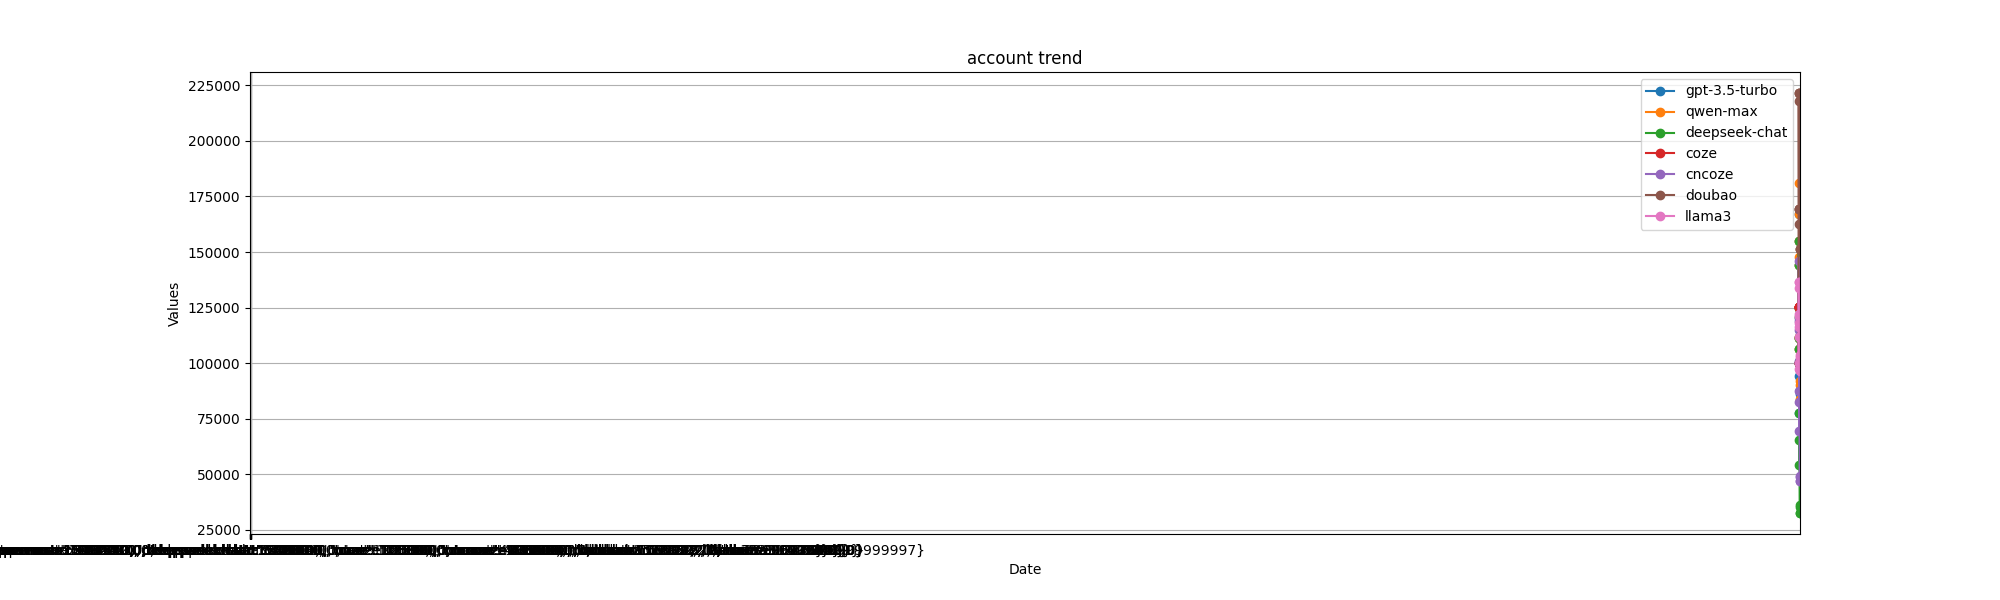
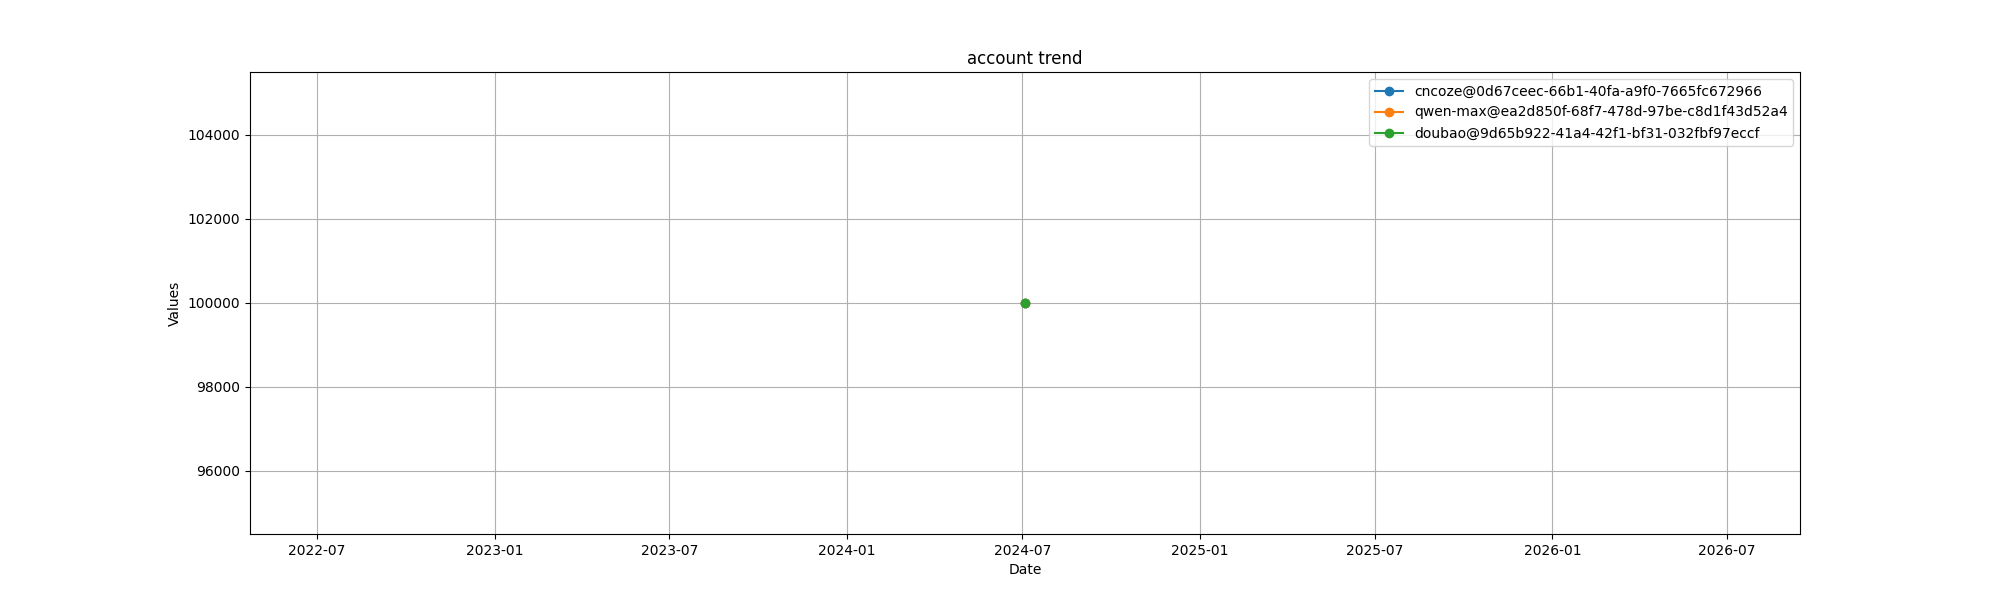
feat: update

diff --git a/main.py b/main.py
@@ -1,11 +1,7 @@
-import random
 import time
-
 import requests
-
 from models import Startup
-from service.ip import get_useable_ip
-from user import reset
+from service.account import daily_count
 from agent import Agent
 import datetime
 import uuid
@@ -24,13 +20,9 @@ from llm.cn_coze import CnCozeModal
 from llm.volc import DoubaoModel
 
 from service.futures_data import get_goods_minute_data
-
 from concurrent.futures import ProcessPoolExecutor, TimeoutError
 
-import matplotlib.pyplot as plt
-import pandas as pd
-
-from util.utils import is_trade_time
+from util.utils import is_trade_time, is_sync_time
 
 # gpt = OpenaiModel("gpt-3.5-turbo")  # 免费，可用，评分为基准60分
 # llama = Ollama("llama3")  # 免费，可用, 评分为75分
@@ -45,7 +37,6 @@ cncoze = CnCozeModal("cncoze")  # # 免费，可用，评分为70分，个人感
 # xunfei = XunfeiModel("xunfei") # lite免费，3.5有送的，但是，全部都是弱智，vol乱写，评分为0分
 doubao = DoubaoModel("doubao")  # 不免费，有赠送，但是收费很便宜，可以很低，评分65
 llm_list = [cncoze, ali, doubao]
-# llm_list = [ali]
 
 
 # 目前看，gpt3.5，扣子中文，llama3，阿里云，扣子，DeepseekModal，DoubaoModel
@@ -54,42 +45,6 @@ llm_list = [cncoze, ali, doubao]
 
 def item_exists(data_list, field, value):
     return any(item[field] == value for item in data_list)
-
-
-def merge_lists(lists, key='date'):
-    merged_dict = {}
-
-    for lst in lists:
-        for item in lst:
-            item_id = item[key]
-            if item_id not in merged_dict:
-                merged_dict[item_id] = item
-            else:
-                # If the same ID exists, merge the dictionaries, prioritizing the existing fields
-                for k, v in item.items():
-                    if k not in merged_dict[item_id]:
-                        merged_dict[item_id][k] = v
-
-    # Convert merged_dict back to a list of dictionaries
-    merged_list = list(merged_dict.values())
-    return merged_list
-
-
-def save_img(data):
-    df = pd.DataFrame(data)
-    df['date'] = pd.to_datetime(df['date'])
-    plt.figure(figsize=(20, 6))
-    for key in df.columns:
-        if key != 'date':
-            plt.plot(df['date'], df[key], marker='o', label=key)
-
-    plt.xlabel('Date')
-    plt.ylabel('Values')
-    plt.title('account trend')
-    plt.legend()
-    plt.grid(True)
-    plt.savefig('plot.png')
-    plt.close()
 
 
 def execution(startup_uid, agent_name, data, daily_data):
@@ -113,14 +68,19 @@ if __name__ == '__main__':
     while True:
         today = datetime.date.today()
         if today.weekday() == 5 or today.weekday() == 6:
+            time.sleep(5 * 60)
             continue
         if not is_trade_time():
+            if is_sync_time():
+                daily_count()
+            time.sleep(5 * 60)
             continue
         history = get_goods_minute_data('AG2408')
         history.reverse()
         try:
-            url = ("http://stock2.finance.sina.com.cn/futures/api/json.php/IndexService.getInnerFuturesDailyKLine?symbol"
-                   "=ag2408")
+            url = (
+                "http://stock2.finance.sina.com.cn/futures/api/json.php/IndexService.getInnerFuturesDailyKLine?symbol"
+                "=ag2408")
             daily_history = requests.get(url).json()
             if len(daily_history):
                 daily_history_temp = daily_history
@@ -128,16 +88,14 @@ if __name__ == '__main__':
             print(e)
             daily_history = daily_history_temp
         with ProcessPoolExecutor() as executor:
-            futures = [executor.submit(execution, startup_id, item.model_name, history[-61:], daily_history[-10:]) for item in llm_list if item.model_name != 'llama3']
+            futures = [executor.submit(execution, startup_id, item.model_name, history[-61:], daily_history[-10:]) for
+                       item in llm_list if item.model_name != 'llama3']
             for future in futures:
                 try:
                     result = future.result(timeout=10000000)  # Wait for all processes to complete
-                    results.append(result)    # Append the result to the list
+                    results.append(result)  # Append the result to the list
                 except TimeoutError:
                     print(f"Timeout occurred for a task.")
-
-        time.sleep(60)
+        time.sleep(5 * 60)
         # llama3 比较特殊，不知道为什么使用线程池失败
         # results.append(execution("llama3", history))
-        # all_history = merge_lists([item for item in results])
-        # save_img(all_history)

diff --git a/util/utils.py b/util/utils.py
@@ -1,5 +1,10 @@
 import datetime
 
+import matplotlib.pyplot as plt
+import pandas as pd
+
+from models import DailyAccount
+
 
 def is_time_in_range(start, end, now=None):
     # If now is not specified, use current time
@@ -43,3 +48,66 @@ def is_trade_time():
             is_time_in_range(start_afternoon, end_afternoon) or
             is_time_in_day_range(start_time, end_time)
             )
+
+
+def is_sync_time():
+    start_day = datetime.time(15, 0)
+    end_day = datetime.time(15, 30)
+
+    return is_time_in_range(start_day, end_day)
+
+
+def save_img(data):
+    last_date = data[-1]['date'].strftime('%Y-%m-%d')
+    df = pd.DataFrame(data)
+    df['date'] = pd.to_datetime(df['date'])
+    plt.figure(figsize=(20, 6))
+    for key in df.columns:
+        if key != 'date':
+            plt.plot(df['date'], df[key], marker='o', label=key)
+
+    plt.xlabel('Date')
+    plt.ylabel('Values')
+    plt.title('account trend')
+    plt.legend()
+    plt.grid(True)
+    plt.savefig(last_date + '.png')
+    plt.close()
+
+
+def merge_lists(lists, key='date'):
+    merged_dict = {}
+
+    for lst in lists:
+        for item in lst:
+            item_id = item[key]
+            if item_id not in merged_dict:
+                merged_dict[item_id] = item
+            else:
+                # If the same ID exists, merge the dictionaries, prioritizing the existing fields
+                for k, v in item.items():
+                    if k not in merged_dict[item_id]:
+                        merged_dict[item_id][k] = v
+
+    # Convert merged_dict back to a list of dictionaries
+    merged_list = list(merged_dict.values())
+    return merged_list
+
+
+def draw_daily_account():
+    data = DailyAccount.select().order_by(DailyAccount.date)
+    df = []
+    current_date = None
+    current_date_list = []
+    for item in data:
+        if current_date is None:
+            current_date = item.date
+        if current_date != item.date:
+            df.append([item for item in current_date_list])
+            current_date_list = []
+            current_date = item.date
+        current_date_list.append({"date": item.date, item.account_name: item.value})
+    df.append([item for item in current_date_list])
+    df = merge_lists(df)
+    print(df)
+    save_img(df)

diff --git a/service/account.py b/service/account.py
@@ -1,0 +1,34 @@
+import datetime
+
+from models import Users, Userstatus, database, GoodsPriceInSecond, Goods, DailyAccount
+
+
+def query_goods_current_price(goods_name):
+    goods = Goods.select().where(Goods.cn_name == goods_name).get()
+    data = GoodsPriceInSecond.select(GoodsPriceInSecond.current_price).where(
+        GoodsPriceInSecond.goods == goods.id).order_by(GoodsPriceInSecond.price_time.desc()).limit(1).get()
+    return data
+
+
+def daily_count():
+    query = Userstatus.select(Userstatus.volume, Users.money, Userstatus.goods, Users.name).where(
+        Userstatus.close.is_null()).join(Users, on=(Users.id == Userstatus.user_id))
+    # 获取每个资产收盘价格
+    # 将资产*收盘价格*数量 + 账户资产
+    users = {}
+    for item in query:
+        if item.users.name not in users:
+            users[item.users.name] = item.users.money
+        goods_price = query_goods_current_price(item.goods)
+        users[item.users.name] += goods_price.current_price * item.volume
+    for key in users:
+        today = datetime.datetime.now().strftime('%Y-%m-%d')
+        today_record = DailyAccount.select().where(DailyAccount.account_name == key, DailyAccount.date == today)
+        if len(today_record) > 0:
+            print("已存在")
+        else:
+            daily = DailyAccount(account_name=key, value=users[key], date=today)
+            daily.save()
+    # cur = database.cursor()
+    # print(cur.mogrify(*query.sql()))
+    # print(len(query))

diff --git a/migration.py b/migration.py
@@ -2,6 +2,8 @@ from playhouse.migrate import *
 from dotenv import load_dotenv
 import os
 
+from models import DailyAccount
+
 load_dotenv()
 db_user = os.getenv("DB_USER")
 db_password = os.getenv("DB_PASSWORD")
@@ -10,9 +12,17 @@ database = MySQLDatabase('futures', user=db_user, password=db_password,
                                   host=db_host, port=3306)
 migrator = MySQLMigrator(database)
 
-model_name = CharField(null=True)
+value = FloatField(null=True)
 
 with database.transaction():
     migrate(
-        migrator.add_column('startup', 'model_name', model_name),
+        migrator.add_column('daily_account', 'value', value),
     )
+
+    # Migrate data from old_field to new_field
+    # DailyAccount.update(value=DailyAccount.value.cast(FloatField())).execute()
+
+    # Drop old_field
+    # migrate(
+    #     migrator.drop_column('daily_account', 'value2')
+    # )

diff --git a/models.py b/models.py
@@ -22,6 +22,9 @@ database = ReconnectMySQLDatabase('futures', user=db_user, password=db_password,
 def formatted_datetime_now():
     return datetime.datetime.now().strftime('%Y-%m-%d %H:%M:%S')
 
+def formatted_datetime_day():
+    return datetime.datetime.now().strftime('%Y-%m-%d')
+
 
 class UnknownField(object):
     def __init__(self, *_, **__): pass
@@ -127,5 +130,14 @@ class Ip(BaseModel):
         table_name = 'ip'
 
 
+class DailyAccount(BaseModel):
+    account_name = CharField()
+    value = FloatField()
+    date = DateField(default=formatted_datetime_day)
+
+    class Meta:
+        table_name = 'daily_account'
+
+
 database.connect()
-database.create_tables([Startup, GoodsPriceInSecond, Records, Users, Userstatus, Goods, Ip])
+database.create_tables([DailyAccount, Startup, GoodsPriceInSecond, Records, Users, Userstatus, Goods, Ip])

diff --git a/cli.py b/cli.py
@@ -1,0 +1,18 @@
+from volcenginesdkarkruntime import Ark
+from dotenv import load_dotenv
+
+from service.account import daily_count
+from util.utils import draw_daily_account
+
+load_dotenv()
+
+# client = Ark(base_url="https://ark.cn-beijing.volces.com/api/v3")
+# response = client.chat.completions.create(
+#     model="ep-20240615044418-lmzkv",
+#     messages=[
+#         {"role": "system", "content": 'You are a help assistant.'},
+#         {"role": "user", "content": 'who you are'},
+#     ],
+# )
+# print(response)
+draw_daily_account()
